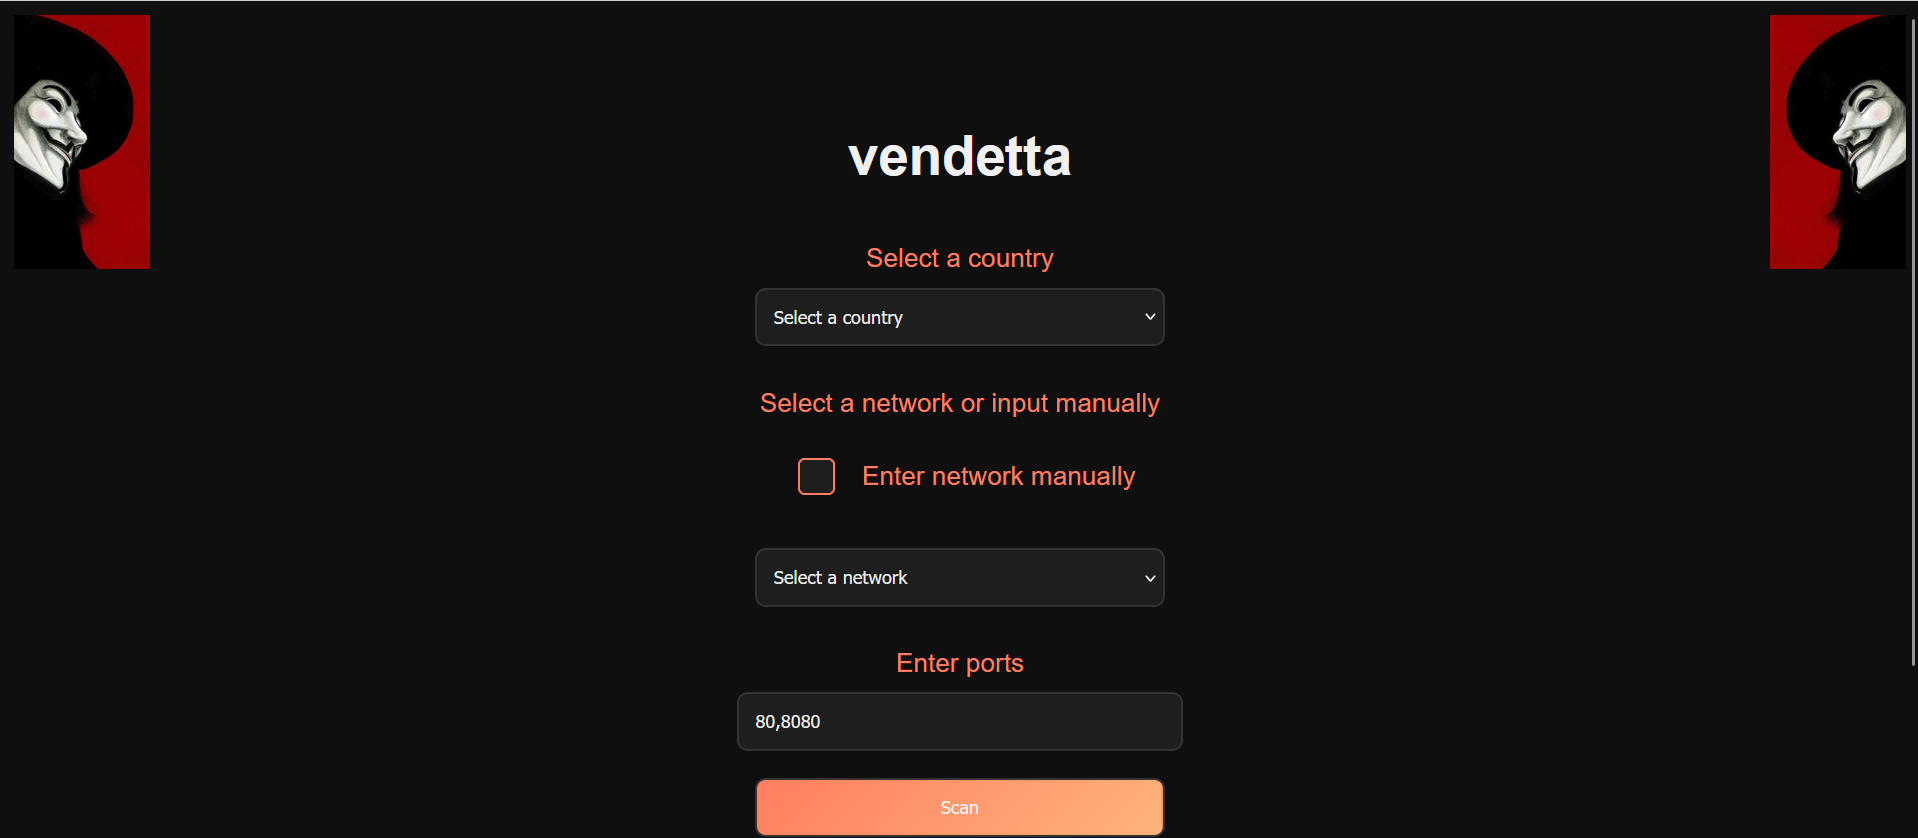
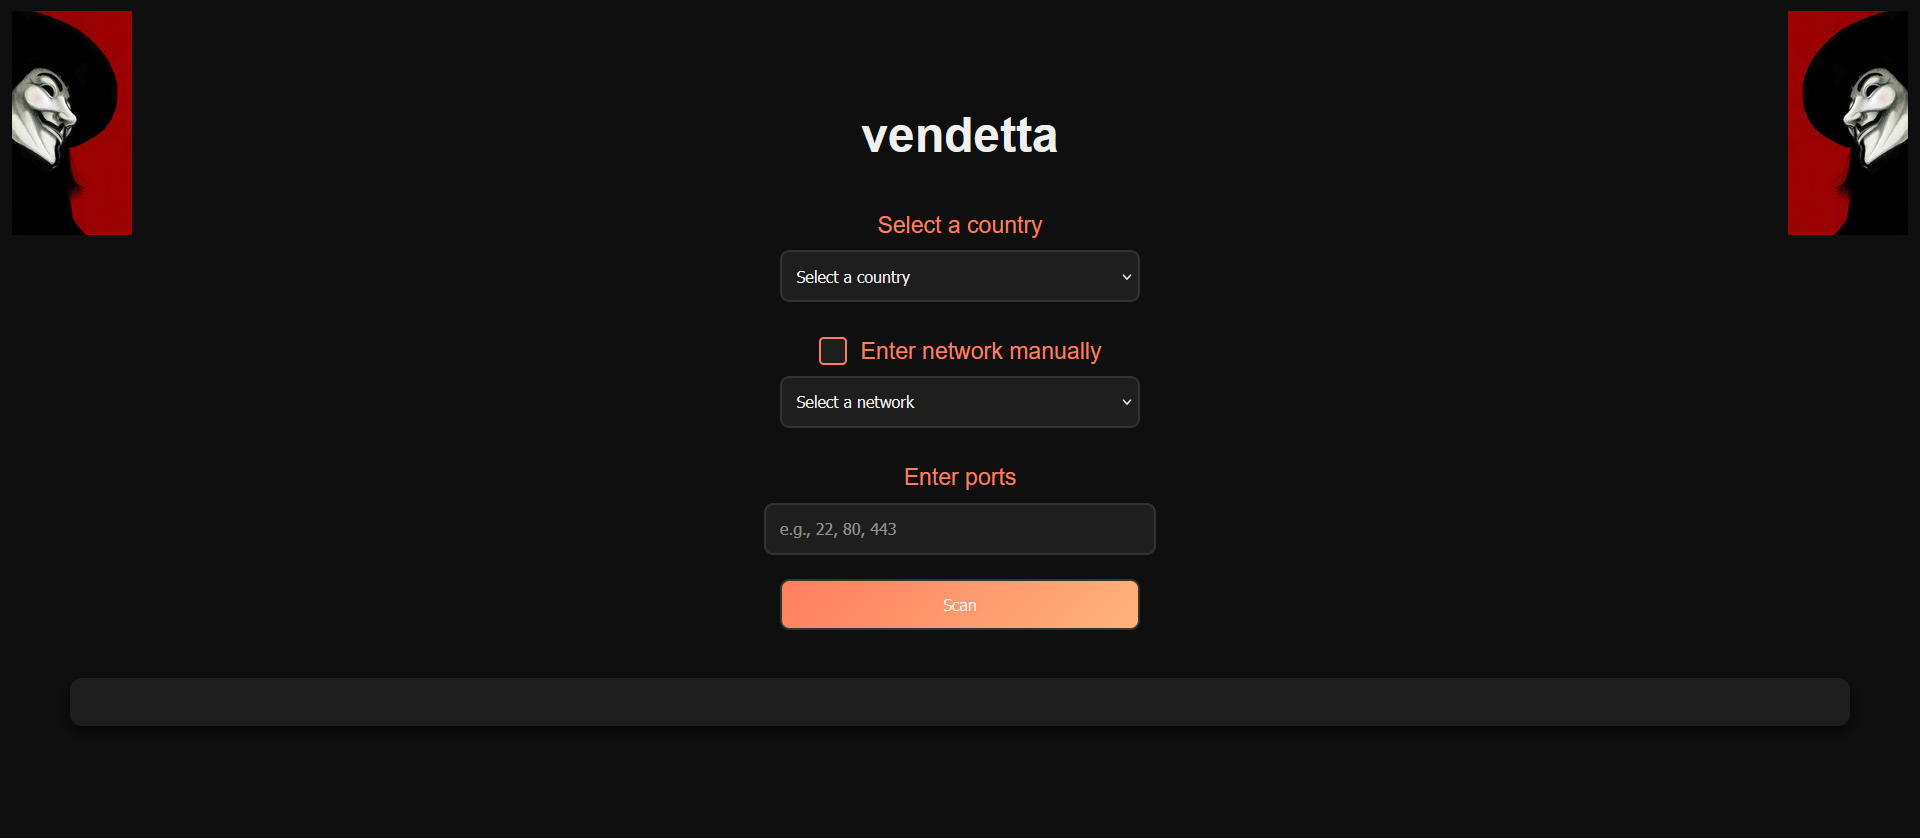
Add files via upload

diff --git a/home.php b/home.php
@@ -16,61 +16,64 @@
         .entry { margin-bottom: 15px; padding: 10px; border-bottom: 1px solid #333; }
         .ip { font-size: 1.3rem; color: #00c6ff; }
         .port { color: #00ffcc; margin: 5px; display: inline-block; text-decoration: none; }
-        .select-container { display: inline-block; text-align: center; }
+        .loading-message { font-size: 1.2rem; color: #ff7e5f; margin-top: 20px; }
+        .count { font-size: 1.2rem; color: #feb47b; margin-top: 10px; }
+        .time { font-size: 1.1rem; color: #ff7e5f; margin-top: 5px; }
 
-        /* Custom checkbox style */
-        input[type="checkbox"] {
-            appearance: none;
-            -webkit-appearance: none;
-            -moz-appearance: none;
-            width: 20px;
-            height: 20px;
-            border: 2px solid #ff7e5f;
-            border-radius: 4px;
-            position: relative;
-            background-color: #1e1e1e;
-            cursor: pointer;
-        }
-
-        input[type="checkbox"]:checked::before {
-            content: '✔';
-            position: absolute;
-            top: 1px;
-            left: 3px;
-            color: #ff7e5f;
-            font-size: 16px;
-        }
-
-        input[type="checkbox"]:hover {
-            background-color: #333;
-        }
-
-        /* Align checkbox and label in one line */
-        .checkbox-container {
-            display: inline-flex;
+        .corner-image { position: absolute; top: 10px; width: 100px; height: auto; }
+        #leftImage { left: 10px; }
+        #rightImage { right: 10px; }
+        .select-container {
+            display: flex;
+            flex-direction: column;
             align-items: center;
+            justify-content: center;
+            width: 100%;
         }
-        #manualCheck + label { margin-left: 10px; }
 
         #manualLabel {
-    vertical-align: middle;
-    margin-top: -1px; /* Adjust this value to control the vertical position */
+            vertical-align: middle;
+            margin-top: -1px; /* Adjust this value to control the vertical position */
+        }
+
+        .flex-container {
+    display: flex;
+    align-items: center;  /* Centers vertically */
+    justify-content: center;  /* Centers horizontally */
+    gap: 5px;  /* Adjust space between checkbox and label */
+    margin-top: 20px;
 }
-.corner-image {
+
+.flex-container input[type="checkbox"] {
+    display: none;
+
+}
+
+.flex-container label {
+    display: flex;
+    align-items: center;
+    position: relative;
+    padding-left: 35px; /* Adjust space to fit the custom checkbox */
+}
+
+/* Custom checkbox style */
+.flex-container label::before {
+    content: '';
     position: absolute;
-    top: 10px; /* Adjust as needed */
-    width: 100px; /* Adjust size as needed */
-    height: auto;
+    left: 0;
+    top: 0;
+    width: 20px; /* Adjust width */
+    height: 20px; /* Adjust height */
+    border: 2px solid #ff7e5f;
+    background-color: #1e1e1e;
+    border-radius: 4px;
 }
 
-#leftImage {
-    left: 10px; /* Position image at the top-left corner */
+/* Change background color when checked */
+.flex-container input[type="checkbox"]:checked + label::before {
+    background-color: #ff7e5f;
 }
 
-#rightImage {
-    right: 10px; /* Position image at the top-right corner */
-}
-        
 
     </style>
 </head>
@@ -83,12 +86,11 @@
         <label for="country">Select a country</label>
         <select id="country" onchange="loadNetworks()"></select><br>
     </div>
-    
-    <label for="network">Select a network or input manually</label><br>
-    <div class="checkbox-container">
-        <input type="checkbox" id="manualCheck" onclick="toggleNetworkInput()"> 
-        <label id="manualLabel" for="manualCheck">Enter network manually</label>
-    </div><br><br>
+
+    <div class="flex-container">
+        <input type="checkbox" id="manualCheck" onclick="toggleNetworkInput()">
+        <label for="manualCheck" id="manualLabel">Enter network manually</label>
+    </div>
 
     <div id="networkSelection" class="select-container">
         <select id="network" disabled><option value="">Select a network</option></select><br>
@@ -102,6 +104,7 @@
 
     <button onclick="scanNetwork()">Scan</button>
 
+    <div id="loading" class="loading-message" style="display:none;">Scanning... Please wait.</div>
     <div id="result" class="result"></div>
 
     <script>
@@ -139,28 +142,25 @@
         }
 
         function toggleNetworkInput() {
-    const isChecked = document.getElementById('manualCheck').checked;
-    const networkSelection = document.getElementById('networkSelection');
-    const manualNetworkDiv = document.getElementById('manualNetworkDiv');
-    const countrySelect = document.getElementById('country');
-    const countryLabel = document.querySelector('label[for="country"]'); // Select the "Select a country" label
+            const isChecked = document.getElementById('manualCheck').checked;
+            const networkSelection = document.getElementById('networkSelection');
+            const manualNetworkDiv = document.getElementById('manualNetworkDiv');
+            const countrySelect = document.getElementById('country');
+            const countryLabel = document.querySelector('label[for="country"]');
 
-    if (isChecked) {
-        // Hide country label, country and network selection, show manual network input
-        countryLabel.style.display = 'none';
-        networkSelection.style.display = 'none';
-        countrySelect.style.display = 'none';
-        manualNetworkDiv.style.display = 'block';
-    } else {
-        // Show country label, country and network selection, hide manual network input
-        countryLabel.style.display = 'block';
-        networkSelection.style.display = 'block';
-        countrySelect.style.display = 'block';
-        manualNetworkDiv.style.display = 'none';
-        loadNetworks(); // Reload networks when checkbox is unchecked
-    }
-}
-
+            if (isChecked) {
+                countrySelect.style.display = 'none';
+                networkSelection.style.display = 'none';
+                if (countryLabel) countryLabel.style.display = 'none';
+                manualNetworkDiv.style.display = 'block';
+            } else {
+                countrySelect.style.display = 'flex'; // Keep it centered
+                networkSelection.style.display = 'flex'; // Keep it centered
+                if (countryLabel) countryLabel.style.display = 'block';
+                manualNetworkDiv.style.display = 'none';
+                loadNetworks();
+            }
+        }
 
         function scanNetwork() {
             let network = document.getElementById("network").value;
@@ -168,21 +168,51 @@
                 network = document.getElementById("manualNetwork").value;
             }
             const ports = document.getElementById("ports").value;
-            if (!network || !ports) { alert("Please select a network or input one manually, and enter ports."); return; }
+            if (!network || !ports) { 
+                alert("Please select a network or input one manually, and enter ports."); 
+                return; 
+            }
+
             document.getElementById("result").innerHTML = '';
-            fetch('/scan.php', { method: 'POST', headers: { 'Content-Type': 'application/json' }, body: JSON.stringify({ address: network, ports }) })
-                .then(response => response.json())
-                .then(data => {
-                    let resultHTML = "<h3>Scan Results:</h3>";
-                    for (let ip in data) {
-                        resultHTML += `<div class='entry'><div class='ip'>${ip}</div>`;
-                        data[ip].forEach(port => { resultHTML += `<a href='http://${ip}:${port}' class='port' target='_blank'>${port}</a>`; });
-                        resultHTML += `</div>`;
-                    }
-                    document.getElementById("result").innerHTML = resultHTML;
-                })
-                .catch(error => { console.error("Error:", error); document.getElementById("result").innerText = "Error scanning."; });
+            document.getElementById("loading").style.display = 'block';
+
+            const startTime = new Date().getTime();
+
+            fetch('/scan.php', { 
+                method: 'POST', 
+                headers: { 'Content-Type': 'application/json' }, 
+                body: JSON.stringify({ address: network, ports }) 
+            })
+            .then(response => response.json())
+            .then(data => {
+                document.getElementById("loading").style.display = 'none';
+
+                const endTime = new Date().getTime();
+                const timeTaken = ((endTime - startTime) / 1000).toFixed(2);
+
+                let totalResults = 0;
+                let resultHTML = `<h3>Scan Results:</h3>`;
+
+                for (let ip in data) {
+                    totalResults++;
+                    resultHTML += `<div class='entry'><div class='ip'>${ip}</div>`;
+                    data[ip].forEach(port => { 
+                        resultHTML += `<a href='http://${ip}:${port}' class='port' target='_blank'>${port}</a>`; 
+                    });
+                    resultHTML += `</div>`;
+                }
+
+                let summary = `<div class="count">Total Results: ${totalResults}</div>`;
+                summary += `<div class="time">Time Taken: ${timeTaken} seconds</div>`;
+                
+                document.getElementById("result").innerHTML = summary + resultHTML;
+            })
+            .catch(error => { 
+                document.getElementById("loading").style.display = 'none';
+                console.error("Error:", error); 
+                document.getElementById("result").innerText = "Error scanning."; 
+            });
         }
     </script>
 </body>
-</html>
+</html

diff --git a/scan.php b/scan.php
@@ -2,6 +2,8 @@
 
 
 if ($_SERVER["REQUEST_METHOD"] === "POST") {
+    set_time_limit(0);  // 0 means no time limit
+
     // Get JSON input from frontend
     $data = json_decode(file_get_contents("php://input"), true);
     $address = escapeshellarg($data["address"]);
@@ -11,10 +13,22 @@ if ($_SERVER["REQUEST_METHOD"] === "POST") {
     // Call the Python script and pass arguments
     $command = "python scanner.py $address $ports";
     $output = shell_exec($command);
-    
-    print $output;
-    // Send back response
-    header("Content-Type: application/json");
+
+    if (!$output) {
+        echo json_encode(["error" => "No output from scanner.py"]);
+        exit;
+    }
+
+    // Try parsing the output to make sure it's valid JSON
+    $json_output = json_decode($output, true);
+    if (json_last_error() !== JSON_ERROR_NONE) {
+        echo json_encode(["error" => "Invalid JSON output from scanner.py", "details" => json_last_error_msg()]);
+        exit;
+    }
+
+    // Return the valid JSON response
+    echo $output;
+
     // echo $output;
 } else {
     http_response_code(405); // Method Not Allowed

diff --git a/scanner.py b/scanner.py
@@ -14,7 +14,7 @@ def scan_port(ip, port, timeout=1):
         pass
     return None
 
-def scan_host(ip, ports, max_threads=10):
+def scan_host(ip, ports, max_threads=200):
     """Scans all specified ports on a single IP using multithreading."""
     open_ports = []
     with ThreadPoolExecutor(max_threads) as executor:
